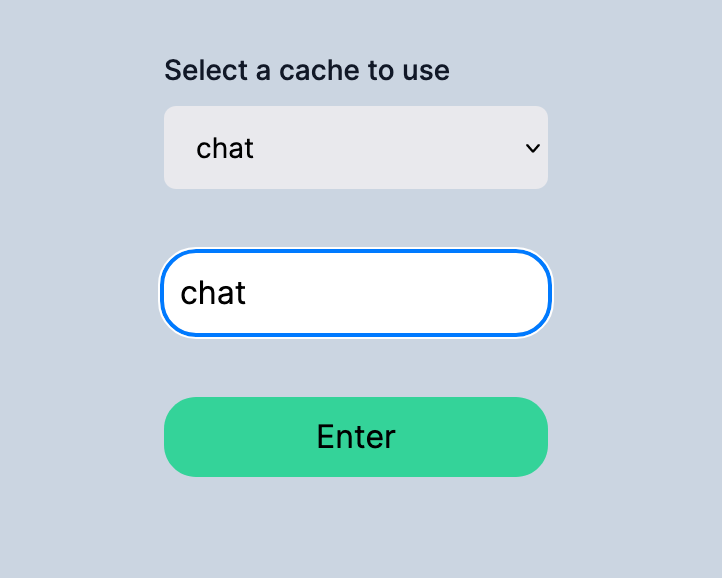
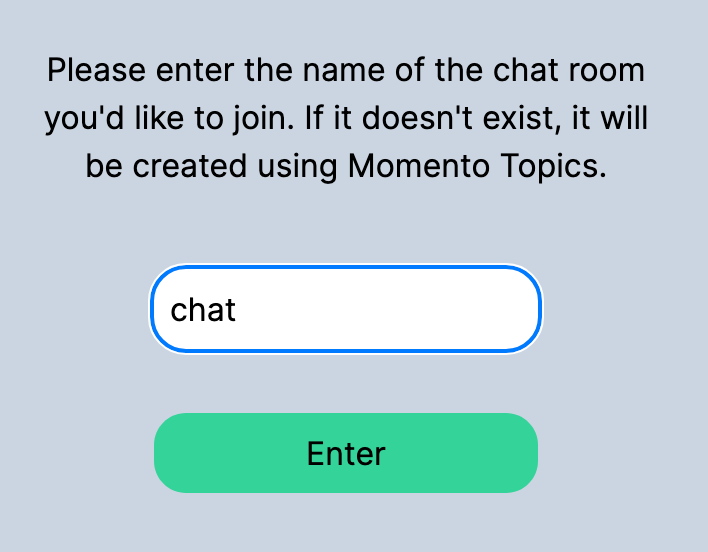
fix: update docs to reflect changes in chat app

diff --git a/docs/develop/integrations/vercel-integration.md b/docs/develop/integrations/vercel-integration.md
@@ -76,7 +76,7 @@ Use the `Continue to Dashboard` button to view detailed information about your d
 
 You're now ready to chat with your friends! There are a few URLs to choose from listed here, but you'll want to use the simplest one listed in the `Domains` section. You would, of course, set up a custom domain were this a production app, but the generated vercel.app URL is good enough for our purposes.
 
-Clicking on the `client-sdk-javascript.vercel.app` link (your URL will likely be different) reveals your chat app's lobby screen. Select the `chat` cache we created earlier from the dropdown and also use `chat` as the name of the chat room. You could use any name, but using `chat` makes it easy to remember and share. If it doesn't exist, the chat room will be created.
+Clicking on the `client-sdk-javascript.vercel.app` link (your URL will likely be different) reveals your chat app's lobby screen. Use `chat` as the name of the chat room. You could use any name, but using `chat` makes it easy to remember and share. If it doesn't exist, the chat room will be created.
 
 ![Chat app lobby](/img/nextjs-chat-app-lobby.png)
 

diff --git a/docs/develop/integrations/netlify-integration.md b/docs/develop/integrations/netlify-integration.md
@@ -75,7 +75,7 @@ You're now ready to chat with your friends! Navigate to the `Site overview` in t
 
 ![Netlify site overview](/img/netlify-site-overview.png)
 
-Clicking on the `https://charming-salmiakki-e07713.netlify.app/` link in the overview (your URL will, of course, be different) reveals your chat app's lobby screen. Select the `chat` cache we created earlier from the dropdown and also use `chat` as the name of the chat room. You could use any name, but using `chat` makes it easy to remember and share. If it doesn't exist, the chat room will be created.
+Clicking on the `https://charming-salmiakki-e07713.netlify.app/` link in the overview (your URL will, of course, be different) reveals your chat app's lobby screen. Use `chat` as the name of the chat room. You could use any name, but using `chat` makes it easy to remember and share. If it doesn't exist, the chat room will be created.
 
 ![Chat app lobby](/img/nextjs-chat-app-lobby.png)
 
